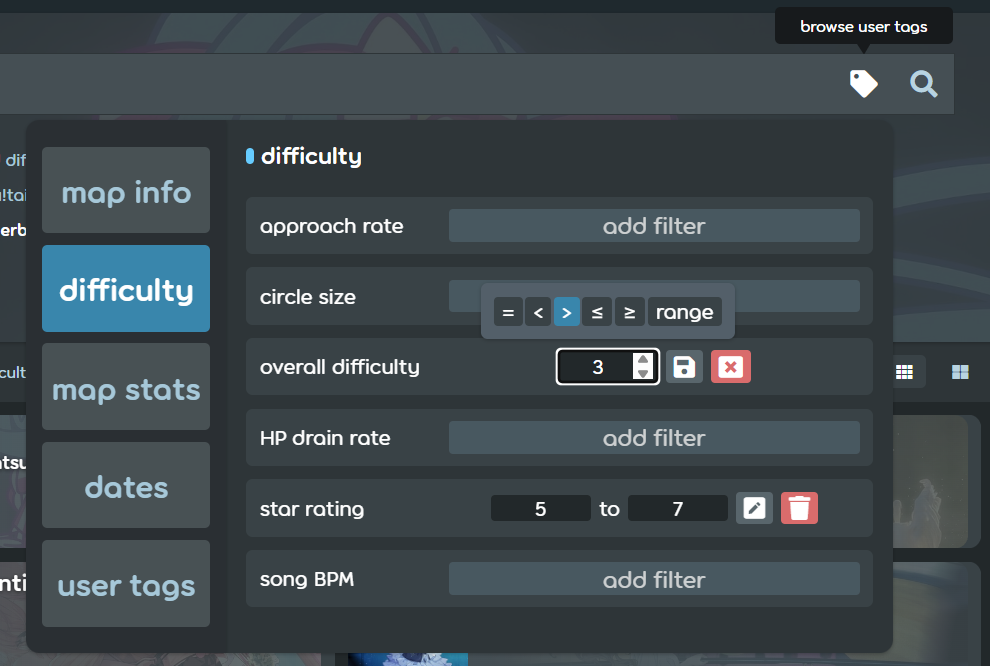
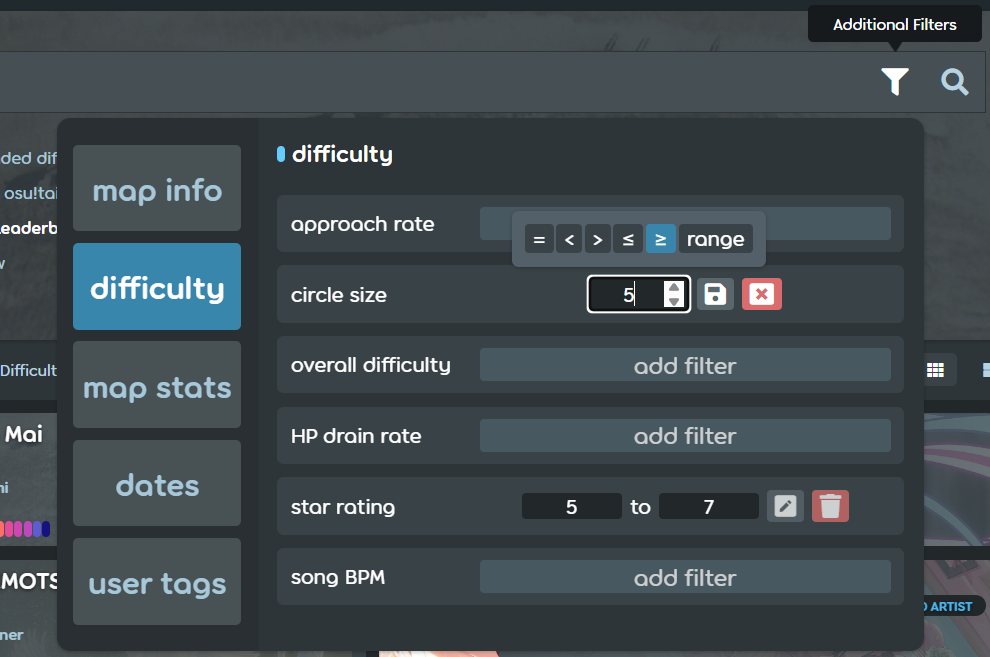
Filter card is now highlighted when being edited + improved readme

diff --git a/src/components/filterTypes/FilterCard.tsx b/src/components/filterTypes/FilterCard.tsx
@@ -51,7 +51,7 @@ export default function FilterCard({
   };
 
   return (
-    <div className="filter-card">
+    <div className={`filter-card ${editing.isEditing && "active-filter-card"}`}>
       <div className="filter-name">{title}</div>
       <div className="filter-input-controls">
         {isSet && renderRangeType()}
@@ -61,6 +61,7 @@ export default function FilterCard({
             <div className="filter-controls-container">
               <button
                 className="edit-btn"
+                disabled={disabled}
                 onClick={() => editing.onEditStart()}
                 title="Edit Filter"
               >
@@ -68,6 +69,7 @@ export default function FilterCard({
               </button>
               <button
                 className="cancel-btn"
+                disabled={disabled}
                 onClick={handleRemove}
                 title="Remove Filter"
               >

diff --git a/src/components/filterTypes/FilterCard.css b/src/components/filterTypes/FilterCard.css
@@ -7,6 +7,9 @@
   border-radius: 5px;
   height: 43px;
 }
+.active-filter-card {
+  outline: 2px solid rgb(125, 138, 143);
+}
 
 .edit-btn,
 .save-btn,
@@ -17,6 +20,10 @@
   font-size: 18px;
   align-self: center;
   user-select: none;
+  &:disabled {
+    opacity: 75%;
+    pointer-events: none;
+  }
 }
 .edit-btn {
   background-color: rgb(89, 102, 108);
@@ -29,10 +36,6 @@
   width: 100%;
   &:hover {
     background-color: rgb(105, 123, 132);
-  }
-  &:disabled {
-    opacity: 75%;
-    pointer-events: none;
   }
 }
 
@@ -93,6 +96,9 @@
   border-radius: 3px;
   text-align: center;
   user-select: none;
+  &:focus {
+    outline: 1.5px solid rgb(141, 157, 167);
+  }
 }
 .num-filter {
   width: 75px;

diff --git a/README.md b/README.md
@@ -1,8 +1,8 @@
 # osu! Extra Filters
 
-![Demo Image](.github/images/frontpage.png)
+![Demo Image 1](/.github/images/screenshot1.png)
 
-An interactive filter selector to cover all of the hidden osu! filters. osu!'s beatmap search has many filters such as stars>5, artist="", etc. that are normally hidden from the user \([Read about them here](https://osu.ppy.sh/wiki/en/Beatmap_search)\). This extension aims to make those filters easy to use with no pre-existing knowledge required. It does this by expanding the user tags menu into a full-fledged filters menu, containing nearly all of the hidden filters.
+An interactive filter selector for the [osu! beatmap search](https://osu.ppy.sh/beatmapsets) that adds the hidden osu! filters. Osu!'s beatmap search has many filters such as stars>5, artist="", etc. that are normally hidden from the user \([Read about them here](https://osu.ppy.sh/wiki/en/Beatmap_search)\). This extension aims to make those filters easy to use with no pre-existing knowledge required. It does this by expanding the user tags menu into a full-fledged filters menu, containing nearly all of the hidden filters.
 
 ## How to run:
 
@@ -13,8 +13,8 @@ An interactive filter selector to cover all of the hidden osu! filters. osu!'s b
 3. Install libaries
    `npm install`
 4. Run extension
-   ``npm run dev`
-5. Load in chrome by going to manage extension, click "Load unpacked", and choosing the dist folder that was created from the previous command.
+   `npm run dev`
+5. Load the extension in chrome by going to manage extension, click "Load unpacked", and choosing the dist folder that was created from the previous command.
 
 ## Contributing
 
@@ -31,10 +31,17 @@ Contributions are welcome, if you are interested in working on this, pull reques
 2. This extension only supports singular filters like </<=/>/>=/=, as well as range values. This realistically covers all use cases for these filters, but just know that the filter cannot handle cases where the user gives a query like "stars>5 stars=3 stars<=7". In the case that the user inputs this (manually, you cannot accidentally do this solely with the extension), the extension will not be able to parse the input, so the filter will be ignored.
 3. The interaction between normal search terms (whatever you put in the search bar that's not a filter) is a little bit awkward, but I think I handled it as gracefully as possible given that the filters are contained within the search bar, not in their own parameters like the normal filters such as genre, language, etc.
 
+## Potential improvements for the future
+
+- It's somewhat unclear at first glance whether a filter is being edited or is just a saved filter; I think that UI could be improved.
+- There's no proper handling for if the user inputs three of the same filter (eg. stars=5 stars>6 stars<8), there needs to be some way of warning the user. I tried using alerts, but I found that annoying from the user's perspective, so for now it is just a console warning.
+- When refreshing the page, you'll see the tag icon for a split second before it gets changed to the filter icon. I'm not sure how to fix that, but that would be a good fix even if it's a pretty minor thing.
+- The tab the user selected is not saved if the user closes the menu and comes back, it always defaults to "map info".
+
 ## License
 
 Distributed under the MIT License. See `LICENSE` for more information.
 
-# Contact info
+## Contact info
 
 For any questions contact me at nickcothrandev@gmail.com
